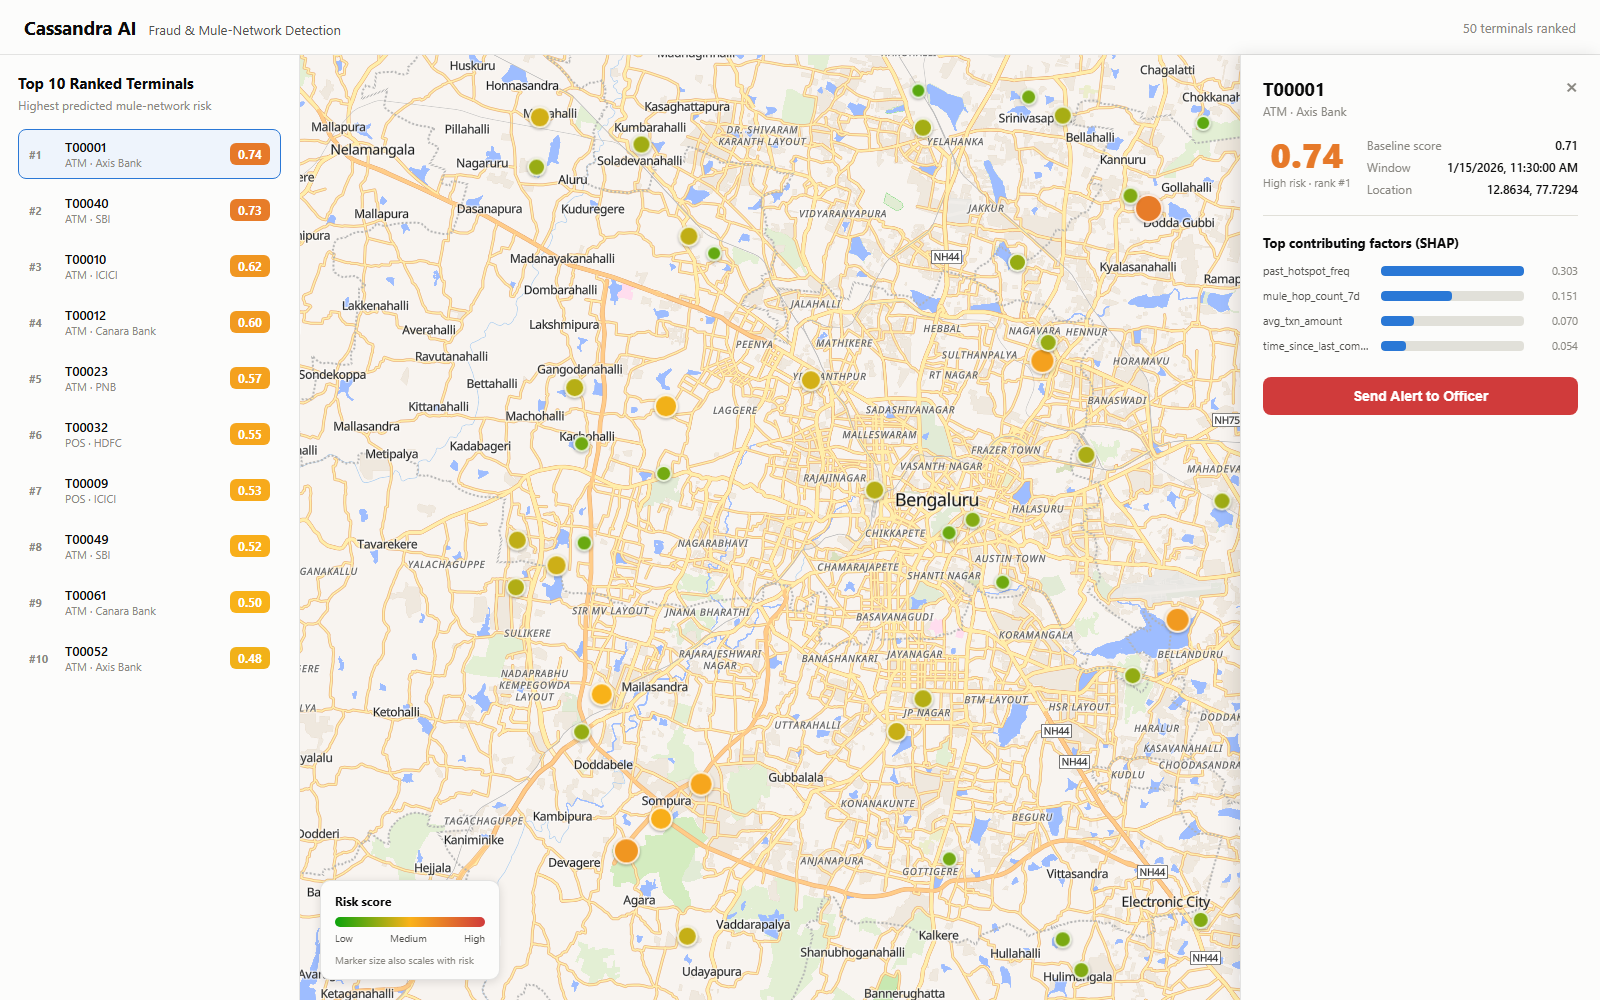
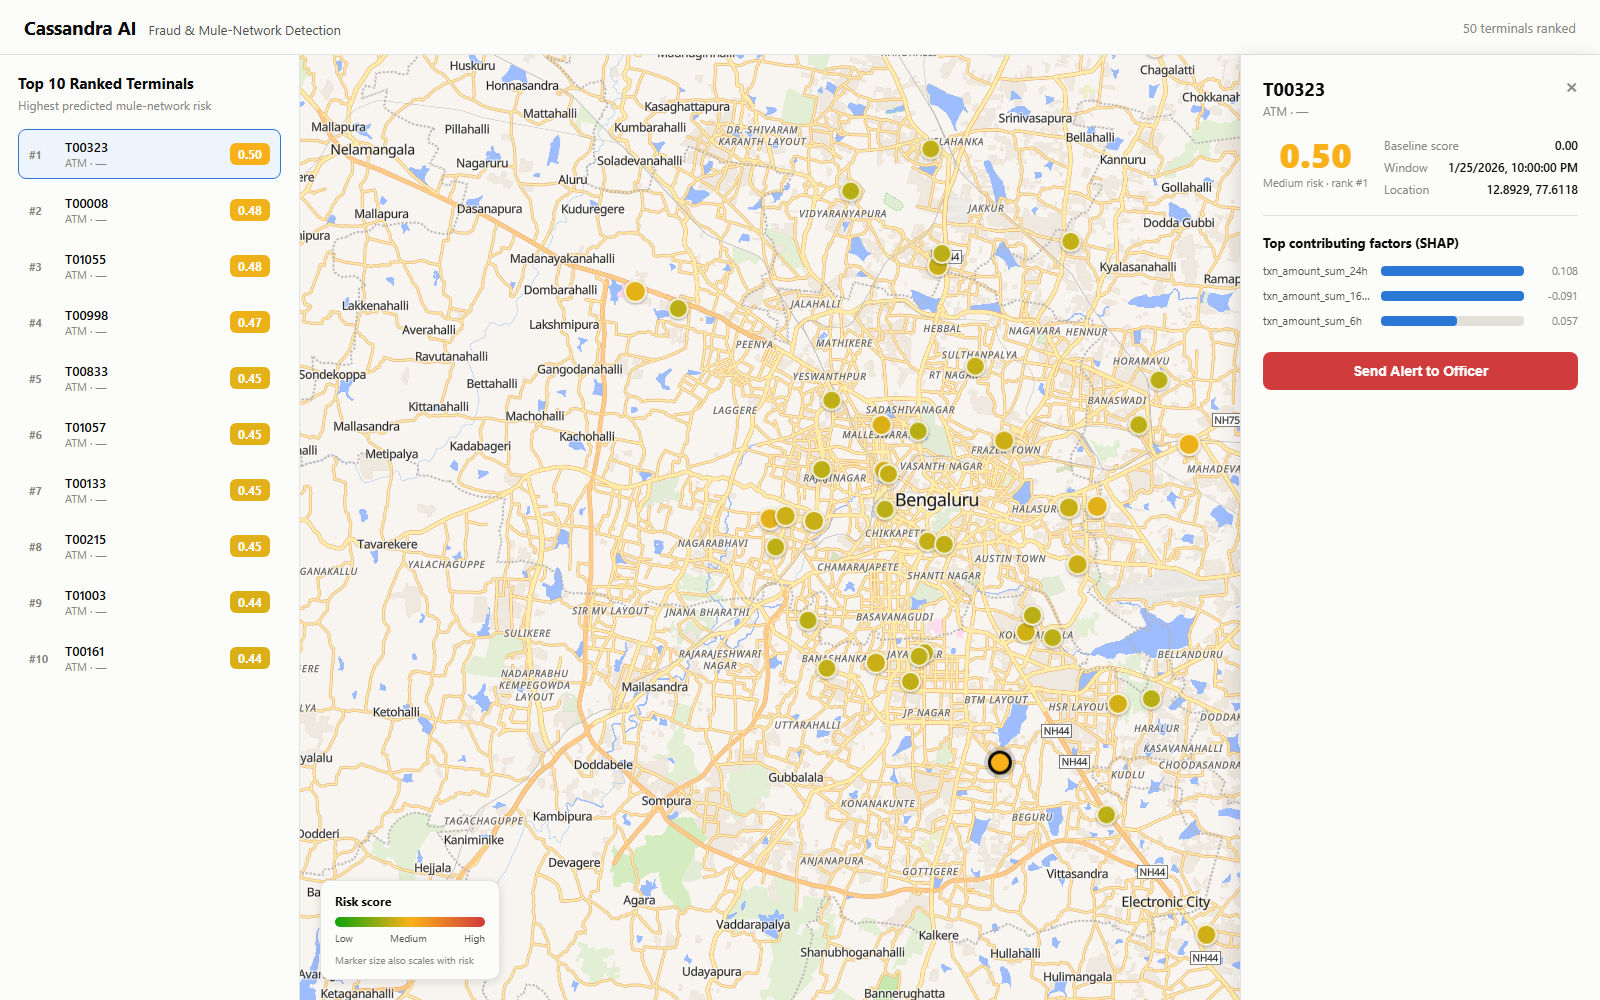
Fix real-backend scoring to filter by latest window before SHAP, re-capture screenshots Previously /api/terminals/ranked ran SHAP TreeExplainer over the entire feature table (289,800 terminal-window rows) on every request instead of just the current window (~1150 rows), making the real-model path ha

diff --git a/api/app/data_source.py b/api/app/data_source.py
@@ -61,6 +61,15 @@ def _try_load_real_backend():
 
         features_df = pd.read_parquet(FEATURES_PATH)
 
+        # Score only the single latest window_start, not the entire history —
+        # SHAP TreeExplainer over the full table (hundreds of thousands of
+        # terminal-window rows) is far too slow for a request path. The API
+        # only ever needs one as-of ranking at a time (see /api/terminals/ranked's
+        # ?window_start= param); re-score lazily per requested window instead
+        # of eagerly scoring everything up front.
+        latest_window = features_df["window_start"].max()
+        features_df = features_df[features_df["window_start"] == latest_window]
+
         model = CassandraModel.load("A")
         results = model.score(features_df)
 
